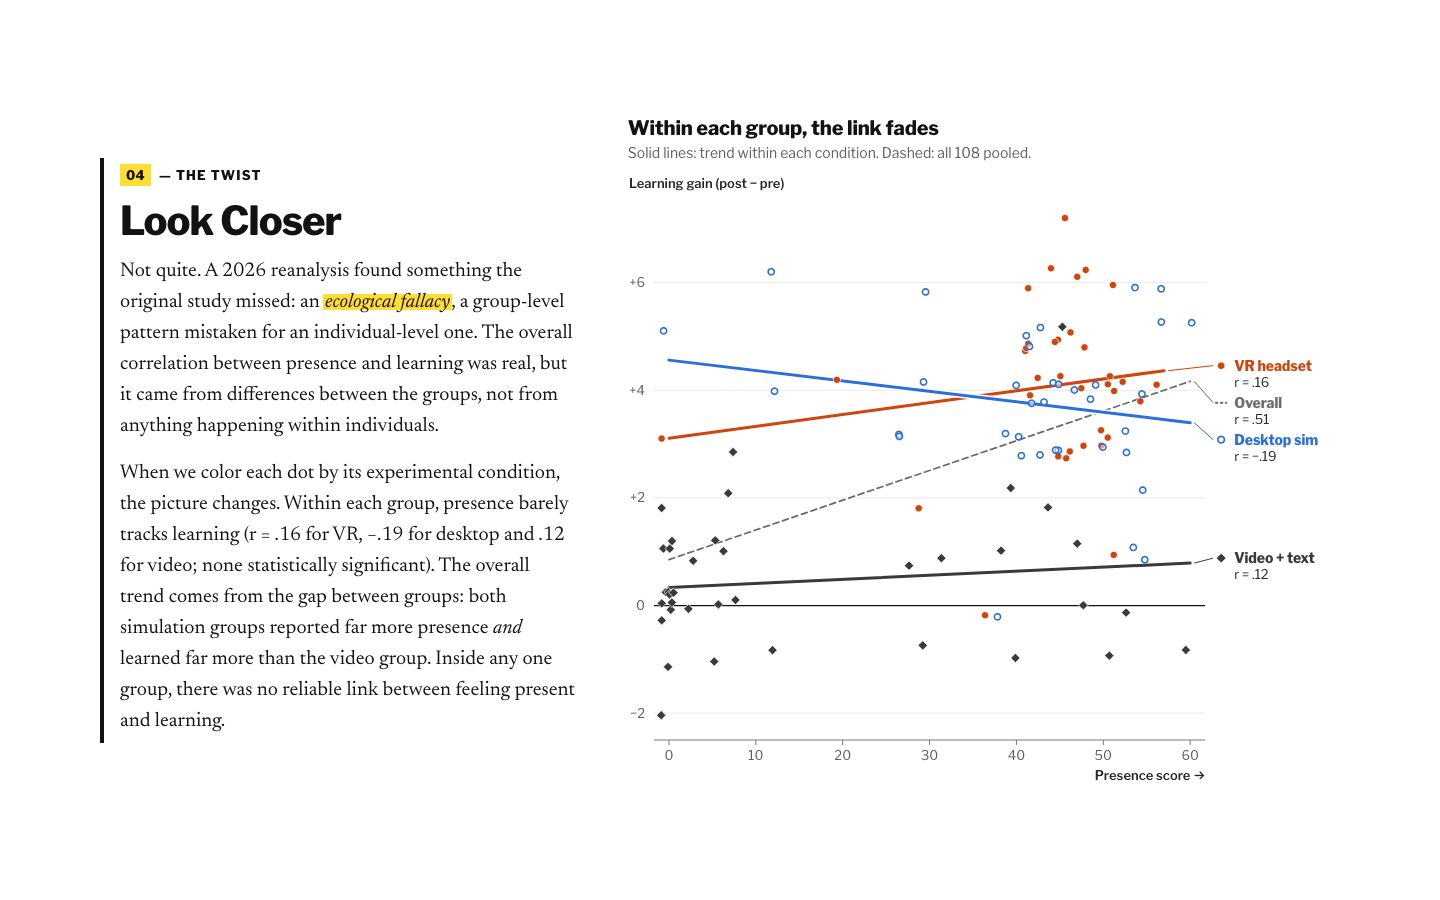
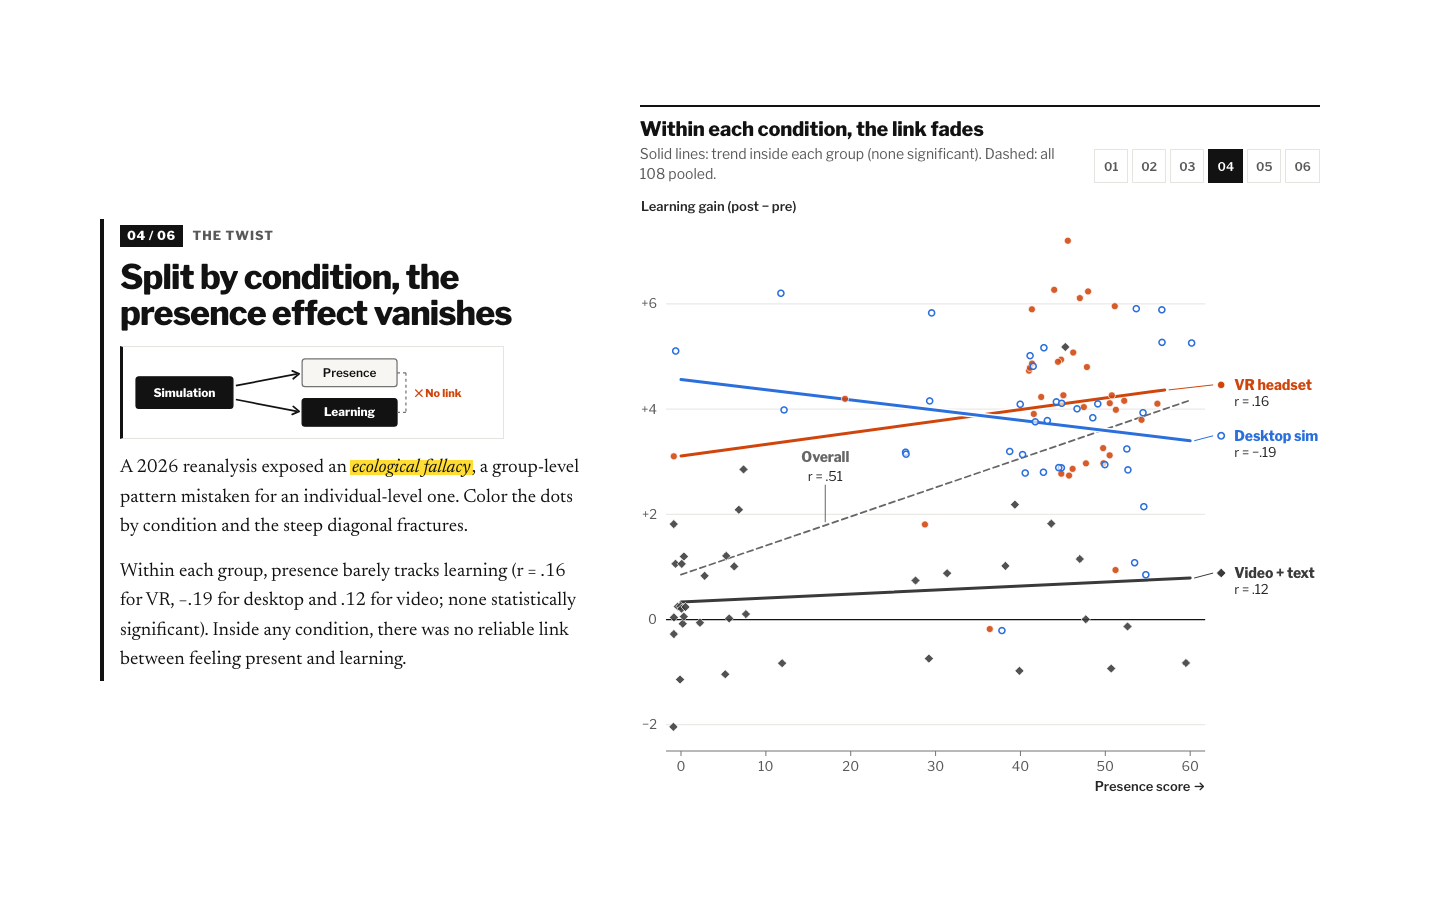
docs: polish v4.0.0 visuals, regenerate screenshots, and update docs and release checks

diff --git a/index.html b/index.html
@@ -117,7 +117,7 @@
                     <div class="card-cap" aria-hidden="true"><span class="card-cap-hed">Pooled across all 108, presence tracks learning</span> <span class="card-cap-dek">Each mark is one participant (jittered slightly). Line: overall OLS trend.</span></div>
                     <p class="step-label"><span class="step-num">03 / 06</span> The 2018 Theory</p>
                     <h2>Pooled together, &ldquo;being there&rdquo; looked like the cause</h2>
-                    <figure class="causal-fig" role="img" aria-label="2018 causal hypothesis: immersion increases presence, which increases learning">
+                    <div class="causal-fig" role="img" aria-label="2018 causal hypothesis: immersion increases presence, which increases learning">
                         <svg viewBox="0 0 360 44" width="360" height="44" focusable="false" aria-hidden="true">
                             <rect class="cf-box" x="1" y="6" width="94" height="32" rx="3"/>
                             <text class="cf-txt" x="48" y="26" text-anchor="middle">Immersion</text>
@@ -130,7 +130,7 @@
                             <rect class="cf-box cf-box--strong" x="265" y="6" width="94" height="32" rx="3"/>
                             <text class="cf-txt cf-txt--strong" x="312" y="26" text-anchor="middle">Learning</text>
                         </svg>
-                    </figure>
+                    </div>
                     <p>The original hypothesis centered on <em>presence</em> &mdash; the psychological sense of &ldquo;being there.&rdquo; In theory, richer immersion deepens presence, and presence drives learning.</p>
                     <p>Plot all 108 students together and the curve confirms it: presence strongly predicts gain (r&nbsp;=&nbsp;.51, p&nbsp;&lt;&nbsp;.001). In 2018, that looked like the mechanism.</p>
                 </div>
@@ -139,7 +139,7 @@
                     <div class="card-cap" aria-hidden="true"><span class="card-cap-hed">Within each condition, the link fades</span> <span class="card-cap-dek">Solid lines: trend inside each group (none significant). Dashed: all 108 pooled.</span></div>
                     <p class="step-label"><span class="step-num">04 / 06</span> The Twist</p>
                     <h2>Split by condition, the presence effect vanishes</h2>
-                    <figure class="causal-fig" role="img" aria-label="2026 reanalysis: simulation condition drives both presence and learning, with no reliable direct link from presence to learning">
+                    <div class="causal-fig" role="img" aria-label="2026 reanalysis: simulation condition drives both presence and learning, with no reliable direct link from presence to learning">
                         <svg viewBox="0 0 360 72" width="360" height="72" focusable="false" aria-hidden="true">
                             <rect class="cf-box cf-box--strong" x="1" y="20" width="98" height="32" rx="3"/>
                             <text class="cf-txt cf-txt--strong" x="50" y="40" text-anchor="middle">Simulation</text>
@@ -156,7 +156,7 @@
                             <line class="cf-arrow--broken" x1="265" y1="56" x2="274" y2="56"/>
                             <text class="cf-cross" x="283" y="40">✕ No link</text>
                         </svg>
-                    </figure>
+                    </div>
                     <p>A 2026 reanalysis exposed an <mark><em>ecological fallacy</em></mark>, a group-level pattern mistaken for an individual-level one. Color the dots by condition and the steep diagonal fractures.</p>
                     <p>Within each group, presence barely tracks learning (r&nbsp;=&nbsp;.16 for VR, &minus;.19 for desktop and .12 for video; none statistically significant). Inside any condition, there was no reliable link between feeling present and learning.</p>
                 </div>

diff --git a/style.css b/style.css
@@ -101,7 +101,7 @@ mark {
     flex-direction: column;
     justify-content: center;
     min-height: 100svh;
-    padding: 28px var(--gutter) 24px;
+    padding: 20px var(--gutter) 18px;
     border-top: 6px solid var(--rule);
     border-bottom: 1px solid var(--grid);
 }
@@ -115,15 +115,15 @@ mark {
 
 .hero-title {
     max-width: 24ch;
-    font-size: clamp(30px, 7.6vw, 52px);
+    font-size: clamp(28px, 7.2vw, 52px);
     line-height: 1.04;
     letter-spacing: -0.028em;
 }
 
 .hero-kicker {
     display: block;
-    margin: 0 0 12px;
-    font-size: clamp(14px, 3.6vw, 17px);
+    margin: 0 0 8px;
+    font-size: clamp(13px, 3.4vw, 17px);
     font-weight: 600;
     line-height: 1.25;
     letter-spacing: 0.04em;
@@ -135,10 +135,10 @@ mark {
 
 .hook {
     max-width: 56ch;
-    margin-top: 14px;
-    font-size: clamp(19px, 4.4vw, 24px);
+    margin-top: 10px;
+    font-size: clamp(18px, 4.3vw, 24px);
     font-style: italic;
-    line-height: 1.35;
+    line-height: 1.32;
     color: var(--text);
 }
 
@@ -146,14 +146,14 @@ mark {
 .hero-stats {
     display: grid;
     grid-template-columns: minmax(0, 1fr);
-    gap: 12px 24px;
-    margin: 24px 0 0;
+    gap: 8px 24px;
+    margin: 16px 0 0;
     padding: 0;
     list-style: none;
 }
 
 .stat-card {
-    padding: 14px 16px;
+    padding: 10px 14px;
     background: var(--surface);
     border-top: 2px solid var(--rule);
 }
@@ -161,7 +161,7 @@ mark {
 .stat-num {
     display: block;
     font-family: var(--font-ui);
-    font-size: clamp(22px, 4.5vw, 28px);
+    font-size: clamp(20px, 4.5vw, 28px);
     font-weight: 800;
     line-height: 1.1;
     letter-spacing: -0.02em;
@@ -171,20 +171,20 @@ mark {
 
 .stat-label {
     display: block;
-    margin-top: 5px;
+    margin-top: 3px;
     font-family: var(--font-ui);
     font-size: 14px;
     font-weight: 600;
-    line-height: 1.3;
+    line-height: 1.25;
     color: var(--ink);
 }
 
 .stat-sub {
     display: block;
-    margin-top: 3px;
+    margin-top: 2px;
     font-family: var(--font-ui);
     font-size: 13px;
-    line-height: 1.35;
+    line-height: 1.3;
     color: var(--muted);
 }
 
@@ -192,9 +192,9 @@ mark {
 .hero-strip {
     display: grid;
     grid-template-columns: minmax(0, 1fr);
-    gap: 10px clamp(16px, 2.6vw, 32px);
-    margin: 22px 0 0;
-    padding: 16px 0 0;
+    gap: 8px clamp(16px, 2.6vw, 32px);
+    margin: 14px 0 0;
+    padding: 12px 0 0;
     border-top: 1px solid var(--grid);
     list-style: none;
 }
@@ -241,7 +241,7 @@ mark {
     display: flex;
     align-items: center;
     gap: 8px;
-    margin-top: 24px;
+    margin-top: 16px;
     font-family: var(--font-ui);
     font-size: 13px;
     font-weight: 600;
@@ -379,7 +379,7 @@ figure.chart figcaption {
 .chart-svg .t-annot {
     paint-order: stroke;
     stroke: var(--bg);
-    stroke-width: 4px;
+    stroke-width: 5px;
     stroke-linejoin: round;
 }
 
@@ -850,6 +850,10 @@ html.js:not(.has-d3) .lab-summary { display: none; }
 
     .hero-title { font-size: clamp(36px, 4.1vw, 52px); }
     .hook { margin-top: 14px; font-size: clamp(19px, 1.9vw, 24px); }
+    .hero-stats { margin-top: 24px; }
+    .stat-card { padding: 14px 16px; }
+    .hero-strip { margin-top: 22px; padding-top: 16px; gap: 10px clamp(16px, 2.6vw, 32px); }
+    .scroll-cue { margin-top: 24px; }
 
     #story {
         display: grid;

diff --git a/tests/repo.spec.js b/tests/repo.spec.js
@@ -1,4 +1,4 @@
-// Release hygiene for v3.0.0 (spec §9, §8.2). Pure Node, no browser; tagged @once so the suite
+// Release hygiene for v4.0.0. Pure Node, no browser; tagged @once so the suite
 // runs it in a single project. Covers the regenerated images, the CI test job, the docs, the
 // dead-code sweep (CSS selectors and script.js functions) and the "no local planning files" rule.
 const { test, expect } = require('@playwright/test');
@@ -48,10 +48,10 @@ test.describe('release hygiene', { tag: '@once' }, () => {
     expect(ciJob('check-links')).toMatch(/--exclude-path node_modules/);
   });
 
-  test('README describes the 3.0.0 page, build and development workflow', () => {
+  test('README describes the 4.0.0 page, build and development workflow', () => {
     const readme = read('README.md');
-    expect(readme).toMatch(/badge\/version-3\.0\.0-blue/);
-    expect(readme).not.toMatch(/version-2\.1\.1/);
+    expect(readme).toMatch(/badge\/version-4\.0\.0-blue/);
+    expect(readme).not.toMatch(/version-3\.0\.0/);
     expect(readme).toMatch(/!\[[^\]]+\]\(docs\/screenshot\.png\)/);
     expect(readme).toMatch(/^## What You'll See$/m);
     expect(readme).toMatch(/hero strip/i);
@@ -84,13 +84,13 @@ test.describe('release hygiene', { tag: '@once' }, () => {
     expect(doc).not.toMatch(/inlined at the top of `script\.js`/);
   });
 
-  test('CHANGELOG has a complete 3.0.0 entry and compare link', () => {
+  test('CHANGELOG has a complete 4.0.0 entry and compare link', () => {
     const log = read('CHANGELOG.md');
-    const entry = log.match(/^## \[3\.0\.0\][^\n]*\n([\s\S]*?)(?=^## \[)/m);
-    expect(entry, '3.0.0 section').not.toBeNull();
+    const entry = log.match(/^## \[4\.0\.0\][^\n]*\n([\s\S]*?)(?=^## \[)/m);
+    expect(entry, '4.0.0 section').not.toBeNull();
     for (const h of ['Added', 'Changed', 'Removed', 'Fixed']) expect(entry[1]).toMatch(new RegExp(`^### ${h}$`, 'm'));
-    expect(log).toContain('[3.0.0]: https://github.com/savvides/dissertation/compare/v2.1.1...v3.0.0');
-    expect(log.indexOf('## [3.0.0]')).toBeLessThan(log.indexOf('## [2.1.1]'));
+    expect(log).toContain('[4.0.0]: https://github.com/savvides/dissertation/compare/v3.0.0...v4.0.0');
+    expect(log.indexOf('## [4.0.0]')).toBeLessThan(log.indexOf('## [3.0.0]'));
   });
 
   test('no local planning files are tracked', () => {

diff --git a/script.js b/script.js
@@ -423,7 +423,7 @@
 
       var titleLines = wrapLines(svg, 't-axis', cfg.title, W - 2);
       var showTopRef = cfg.medianRef !== undefined && H >= 220;
-      var top = showTopRef ? 24 : 4;
+      var top = showTopRef ? 26 : 4;
       var bottom = 7 + 13 + 8 + titleLines.length * 16 + 4;
       var labelH = compact ? 20 : 0;
       var stepH = compact ? Math.min((H - top - bottom) / 3, 94) : (H - top - bottom) / 3;
@@ -595,13 +595,13 @@
       // Step-specific quiet Knaflic callout annotations (gated on ample whitespace).
       var annots = [];
       if (showTopRef) {
-        annots.push({ id: 'median-top', x: x(cfg.medianRef) + 5, y: -9, anchor: 'start', text: plotW >= 340 ? 'All groups share median = 2' : 'Median = 2' });
+        annots.push({ id: 'median-top', x: x(cfg.medianRef) + 6, y: -10, anchor: 'start', text: plotW >= 340 ? 'All groups share median = 2' : 'Median = 2' });
       }
       if (cfg.metric === 'cognitive_load' && plotW >= 360 && laneH >= 78) {
         annots.push({ id: 'vr-outliers', x: x(9.5), y: band.High.y0 + 13, anchor: 'middle', text: '4 VR outliers (7–12); avg gain +4.3' });
       }
       if (cfg.metric === 'learning_gains' && plotW >= 360 && laneH >= 78) {
-        annots.push({ id: 'vr-desk-tie', x: x(-1.25), y: (band.High.mid + band.Medium.mid) / 2 + 4, anchor: 'middle', text: 'VR vs. Desktop: d = 0.23, p = .33 (n.s.)' });
+        annots.push({ id: 'vr-desk-tie', x: x(0.22), y: (band.High.mid + band.Medium.mid) / 2 + 4, anchor: 'start', text: 'VR vs. Desktop: d = 0.23, p = .33 (n.s.)' });
       }
 
       exitFade(f.layer('annotations').selectAll('g.design-br, g.inplot-lbl'), m);

diff --git a/scripts/screenshots.js b/scripts/screenshots.js
@@ -1,5 +1,5 @@
 // Renders the two README/social images from the live page (dev-only; needs `npm ci` and
-// `npx playwright install chromium`). Both show step 4 ("Look Closer"), the page's turning point.
+// `npx playwright install chromium`). Both show step 4 ("Split by condition, the presence effect vanishes"), the page's turning point.
 //   docs/screenshot.png      1440×900
 //   docs/social-preview.png  1200×630 (the og:image size)
 // Usage: node scripts/screenshots.js

diff --git a/README.md b/README.md
@@ -1,13 +1,13 @@
 ![CI](https://github.com/savvides/dissertation/actions/workflows/ci.yml/badge.svg)
 ![Deploy](https://github.com/savvides/dissertation/actions/workflows/deploy.yml/badge.svg)
 ![License: CC BY 4.0](https://img.shields.io/badge/License-CC_BY_4.0-lightgrey.svg)
-![Version](https://img.shields.io/badge/version-3.0.0-blue.svg)
+![Version](https://img.shields.io/badge/version-4.0.0-blue.svg)
 
 # Teaching Science Lab Safety: Are Virtual Simulations Effective?
 
 An interactive data story exploring VR, learning, and a surprising statistical fallacy.
 
-![Step 4, "Look Closer": dots colored and shaped by condition, each group with its own weak, non-significant trend line, and a dashed line for all 108 pooled that climbs far more steeply](docs/screenshot.png)
+![Step 4, "Split by condition, the presence effect vanishes": dots colored and shaped by condition, each group with its own weak, non-significant trend line, and a dashed line for all 108 pooled that climbs far more steeply](docs/screenshot.png)
 
 The 2018 PhD study (n=108) asked whether VR headsets improve learning. VR did not significantly beat a desktop version of the same simulation (Cohen's d = 0.23, p = .33; the study was too small to detect a difference that size). Both simulation groups far outperformed a video-and-handout control (d > 2.4), though that comparison also changed the content and the session length. A 2026 reanalysis added something the original paper missed: the presence-learning correlation is an ecological fallacy — real at the group level, gone within each condition.
 
@@ -15,16 +15,17 @@ The 2018 PhD study (n=108) asked whether VR headsets improve learning. VR did no
 
 ## What You'll See
 
-The page opens on a **hero strip**: 108 marks grouped by condition (35 VR headset, 36 desktop, 37 video and text), one mark per participant. From there, a sticky chart redraws as you scroll through five steps, then hands over to an interactive Lab.
+The page opens with an **executive scorecard** and a **hero strip** (108 marks grouped by condition: 35 VR headset, 36 desktop, 37 video and text). From there, a unified 108-dot figure morphs across six scroll-driven beats, followed by a three-card **decision playbook** and an upgraded **Evidence Lab**:
 
-1. **The Experiment** — 108 participants randomly assigned to VR, desktop simulation, or video/text control
-2. **The Promise** — Simulations work, but VR doesn't significantly beat desktop
-3. **The Deeper Question** — Presence as the theorized mechanism, with a convincing overall correlation
-4. **The Twist** — The ecological fallacy reveal: color the dots by condition and the correlation disappears
-5. **An Open Question** — The price of novelty? VR's cognitive load ran highest, but not significantly. The page frames novelty cost as a hypothesis the study raises, not one it confirms.
-6. **The Evidence Lab** — An interactive scatter plot you can drive yourself: toggle overall vs. by-condition views, swap the y-axis between learning gains and cognitive load, and show or hide the trend lines to replay the fallacy on demand. Hover, tap or focus any dot (or arrow through them with the keyboard) and a readout shows that participant's values; a summary sentence under the chart restates the current view from the computed statistics.
+1. **The Experiment** — Two groups got an interactive lab; one got a video (showing the cohort layout and built-in confound)
+2. **The Outcome** — All 108 learning gains as a beeswarm with means and 95% CIs: simulations beat video 8.5×, but VR didn't beat a laptop
+3. **The 2018 Theory** — Causal chain diagram and pooled scatter plot where "being there" looked like the mechanism (`r = .51, p < .001`)
+4. **The Twist** — Confounder diagram and colored overlay exposing the ecological fallacy as the pooled line fractures within groups
+5. **Why It Happened** — Three small-multiple panels pulling the groups apart so readers see the zero-presence control floor (`14 of 37`) and upper-right simulation cluster (`58 of 71`) against the pooled diagonal
+6. **An Open Question** — Cognitive load beeswarm (`0–12`) showing every group shared a median of `2`, while VR's four high-load outliers (`7–12`) still averaged `+4.3` gain. Novelty cost is a hypothesis the study raises, not one it confirms
+7. **Decision Playbook & Evidence Lab** — Takeaways for learning buyers, analysts, and VR designers, plus a `3 × 3 × 2` interactive scatter Lab (`Overall` / `Overlay` / `Split` × `Presence → Gain` / `Presence → Load` / `Load → Gain` × `Trendlines`) with guided investigation presets and a live readout/summary
 
-The charts, their text descriptions and the Lab's readout and summary take every number from `data.js`, which `scripts/csv_to_js.js` generates from `data.csv`; the browser never calculates a statistic. The statistics quoted in the text (the hero strip's counts, step 4's within-group r values and step 5's cognitive-load figures) are written by hand, and the test suite checks them against `data.js`.
+The charts, their text descriptions and the Lab's readout and summary take every number from `data.js`, which `scripts/csv_to_js.js` generates from `data.csv`; the browser never calculates a statistic. The statistics quoted in the text (hero scorecard metrics, strip counts, step 4's within-group r values, step 5's cluster counts, and step 6's cognitive-load figures) are verified against `data.js` by the test suite.
 
 ## The Data
 

diff --git a/CHANGELOG.md b/CHANGELOG.md
@@ -5,6 +5,31 @@ All notable changes to this project will be documented in this file.
 The format is based on [Keep a Changelog](https://keepachangelog.com/en/1.0.0/),
 and this project adheres to [Semantic Versioning](https://semver.org/spec/v2.0.0.html).
 
+## [4.0.0] - 2026-11-20
+
+Rebuilt narrative architecture, unified 108-dot visualization engine, and upgraded Evidence Lab around executive storytelling and data-visualization design principles while preserving scientific accuracy and `file://` portability.
+
+### Added
+- **Executive Hero Scorecard**: Three-card Pyramid Principle summary above the fold (`+4.1 vs. +3.8` VR vs. desktop tie, `8.5×` simulation gain over video, `r = .51 → n.s.` ecological fallacy) paired with the 108-mark participant strip.
+- **Unified 108-dot object permanence**: One persistent `<g class="frame" data-frame="story">` across all six narrative beats so all 108 participant marks morph smoothly from design cohorts (Step 1) → learning-gain beeswarm (Step 2) → pooled scatter (Step 3) → condition overlay (Step 4) → 3-panel small multiples (Step 5) → cognitive-load beeswarm (Step 6).
+- **Small multiples (Step 5 & Lab `Split` view)**: Side-by-side panels (`Video + text`, `Desktop sim`, `VR headset`) on wide screens and stacked panels on phones, showing each group's flat within-condition trend against the ghosted pooled diagonal.
+- **Causal schematic diagrams & expandable method notes**: Inline *slide:ology* causal chain vs. confounder fork diagrams in Steps 3 & 4 and optional `<details class="method-note">` disclosures for protocol, scale, instrument validity, and outlier context.
+- **Quick-jump story navigation**: Clickable `01`–`06` step buttons synced to scroll position on wide viewports.
+- **Load → Gain axis & guided Lab presets**: Extended `scripts/csv_to_js.js` (`data.js`) with group medians, min/max, presence stats, `summary` metrics, and `cor.load_vs_gain`, powering a third Lab axis (`Load → Gain`, `r = .14` in VR) and three one-click investigation presets (`Replay the fallacy`, `Check VR's high-load outliers`, `Inspect Participant #88`).
+- **Decision Playbook & APA citation copy**: Three-card takeaway playbook in `#coda` and a balanced three-column footer with an interactive "Copy APA citation" button.
+
+### Changed
+- **Narrative spine & copy**: Replaced teaser titles with claim-bearing assertion headlines across the hero and all six beats; replaced Step 1's redundant count bars with an experimental design cohort schematic and replaced Steps 2 & 5 summary bars with full 108-dot beeswarms overlaid with 95% CIs and means.
+- **Step 4 label hierarchy**: Moved the `Overall (r = .51)` callout directly onto the dashed pooled diagonal in empty canvas space on roomy displays so the right gutter stays uncrowded.
+- **Visual tokens**: Neutralized step-number badges to editorial stone/ink (`#F3F2EE` / `#121212`) so `#FFDD33` remains reserved exclusively for the `ecological fallacy` highlight and never competes with VR data marks.
+- **Tests**: Updated Playwright suite (`chart-helpers.js`, `narrative.spec.js`, `lab.spec.js`, `content.spec.js`, `contrast.spec.js`, `data.spec.js`, `a11y.spec.js`, `resilience.spec.js`, `repo.spec.js`) to cover 6-step persistence, all 18 Lab states, guided presets, and updated contrast/copy checks.
+
+### Removed
+- **Summary-only bar charts**: Replaced Steps 1, 2, and 5 mean/count bars so every step preserves all 108 individual observations.
+
+### Fixed
+- **Step 4 right-gutter crowding & cognitive-load ceiling blindspot**: De-crowded Step 4's direct labels, surfaced the shared cognitive-load median of `2` and the four VR outliers (`7–12`, avg `+4.3` gain), and verified zero text overlaps across all 6 steps and 18 Lab states at every viewport.
+
 ## [3.0.0] - 2026-10-24
 
 The story, its order and the corrected 2.1.1 copy are unchanged. The page is rebuilt around them.
@@ -97,6 +122,7 @@ The story, its order and the corrected 2.1.1 copy are unchanged. The page is reb
 - **Original Dissertation**: PhD Dissertation "Teaching Science Lab Safety: Are Virtual Simulations Effective?" (Savvides, 2018).
 - **Literature Review (2018)**: Citations and analysis covering VR in science education through 2018.
 
+[4.0.0]: https://github.com/savvides/dissertation/compare/v3.0.0...v4.0.0
 [3.0.0]: https://github.com/savvides/dissertation/compare/v2.1.1...v3.0.0
 [2.1.1]: https://github.com/savvides/dissertation/compare/v2.1.0...v2.1.1
 [2.1.0]: https://github.com/savvides/dissertation/compare/v2.0.0...v2.1.0

diff --git a/CLAUDE.md b/CLAUDE.md
@@ -15,7 +15,7 @@ This repository contains Philippos Savvides's 2018 PhD dissertation from Arizona
 - `README.md` — Project overview, study summary, literature review addendum summary, and methodological retrospective
 - `HOW-IT-WAS-MADE.md` — Process write-up explaining how the interactive site was built with Claude Code
 - `CHANGELOG.md` — Versioned release notes for the interactive site (Keep a Changelog format, SemVer)
-- `index.html` / `style.css` / `script.js` — Single-page interactive scrollytelling site in the "Newsroom" design (D3.js v7, vanilla CSS, classic scripts, no build tools). Sections: hero with a participant strip (`#hero`), scroll-driven narrative with a sticky chart (`#story`), personal coda (`#coda`), interactive Evidence Lab (`#lab`), and portfolio footer (`#about`). `script.js` must not throw when `window.d3` is missing, and every number it shows comes from `window.STUDY`.
+- `index.html` / `style.css` / `script.js` — Single-page interactive scrollytelling site in the v4.0.0 "Newsroom" design (D3.js v7, vanilla CSS, classic scripts, no build tools). Sections: hero with executive scorecard and 108-mark participant strip (`#hero`), scroll-driven 6-step narrative with a unified 108-dot sticky chart and quick-jump nav (`#story`), personal coda and 3-card decision playbook (`#coda`), interactive 3×3×2 Evidence Lab with guided presets (`#lab`), and balanced portfolio footer with APA citation copy (`#about`). `script.js` must not throw when `window.d3` is missing, and every number it shows comes from `window.STUDY`.
 - `data.js` — Generated from `data.csv`: `window.STUDY` with the points, labels and precomputed statistics. **Never hand-edit it.** Change `data.csv` or `scripts/csv_to_js.js`, then run `node scripts/csv_to_js.js` (or `npm run data`); a test fails if `data.js` is stale.
 - `vendor/` — `d3.v7.9.0.min.js` (self-hosted, byte-identical to jsDelivr's `d3@7.9.0/dist/d3.min.js`) and its ISC license
 - `scripts/csv_to_js.js` — The generator for `data.js`

diff --git a/HOW-IT-WAS-MADE.md b/HOW-IT-WAS-MADE.md
@@ -34,7 +34,7 @@ The whole site was built through iterative conversation with Claude Code. No han
 
 7. **A personal coda and footer.** A first-person reflection closes the narrative ("Eight years later, I found a fallacy hiding in my own data."), and a three-column footer points to this write-up, my LinkedIn, and the open dataset.
 
-8. **Iteration.** Many rounds of conversation, refining the narrative, polishing the charts, adjusting the pacing. The AI handled the code. I handled the taste. That included a full review of the first version, a round of corrections to claims the data didn't support, and then the Newsroom redesign described above.
+8. **Iteration.** Many rounds of conversation, refining the narrative, polishing the charts, adjusting the pacing. The AI handled the code. I handled the taste. That included a full review of the first version, a round of corrections to claims the data didn't support, the Newsroom redesign, and a v4.0.0 narrative & data-visualization overhaul unifying all 108 participants across six beats, small multiples, an executive scorecard, and guided Evidence Lab presets.
 
 The entire thing is static HTML. No build tools, no server, no database. It's four static files plus a charting library, and it deploys on GitHub Pages for free.
 
